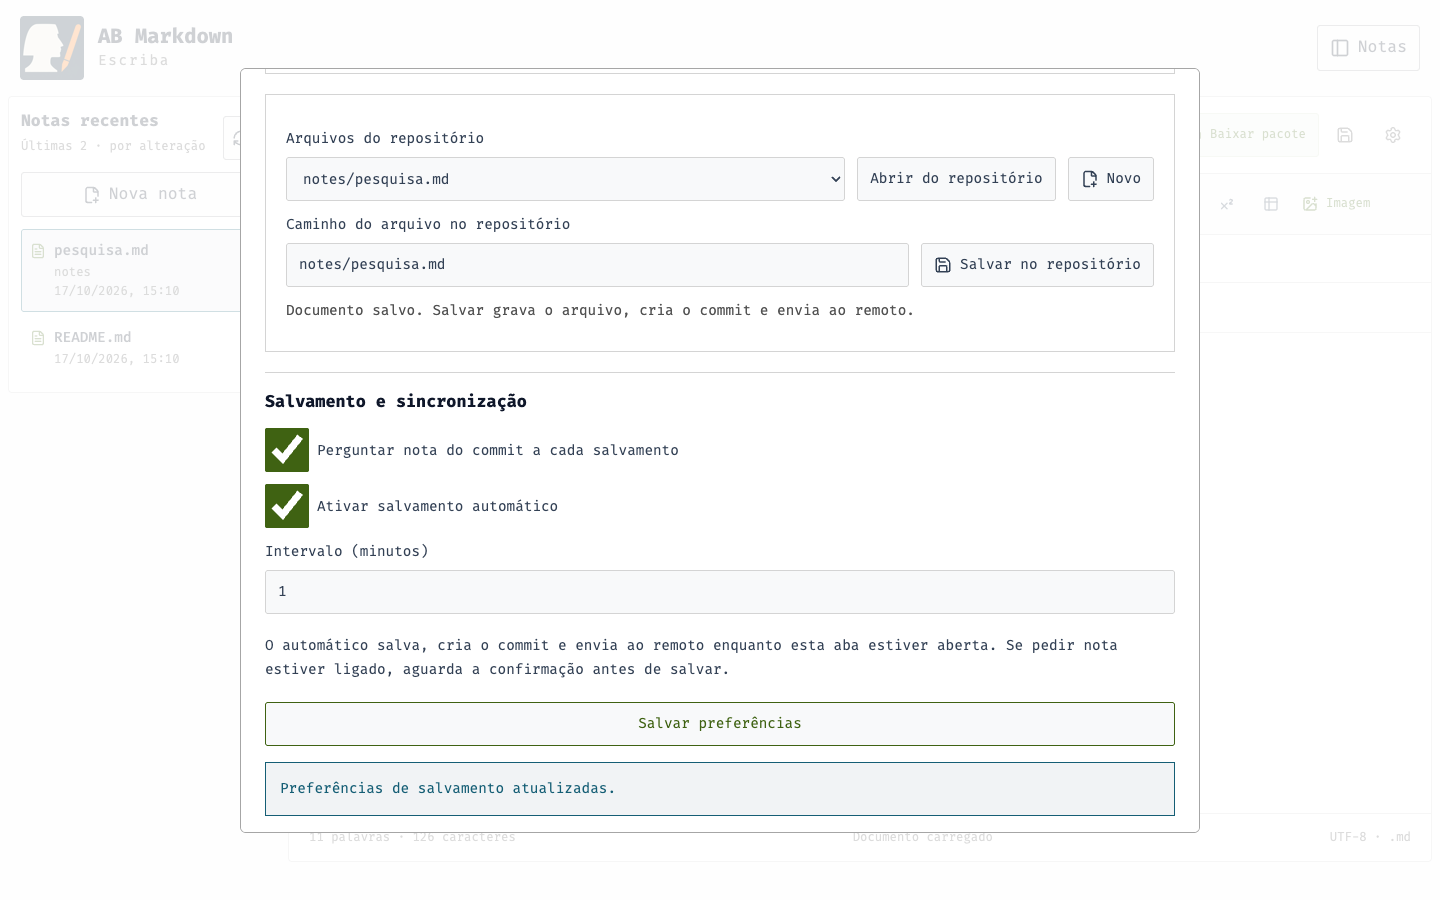
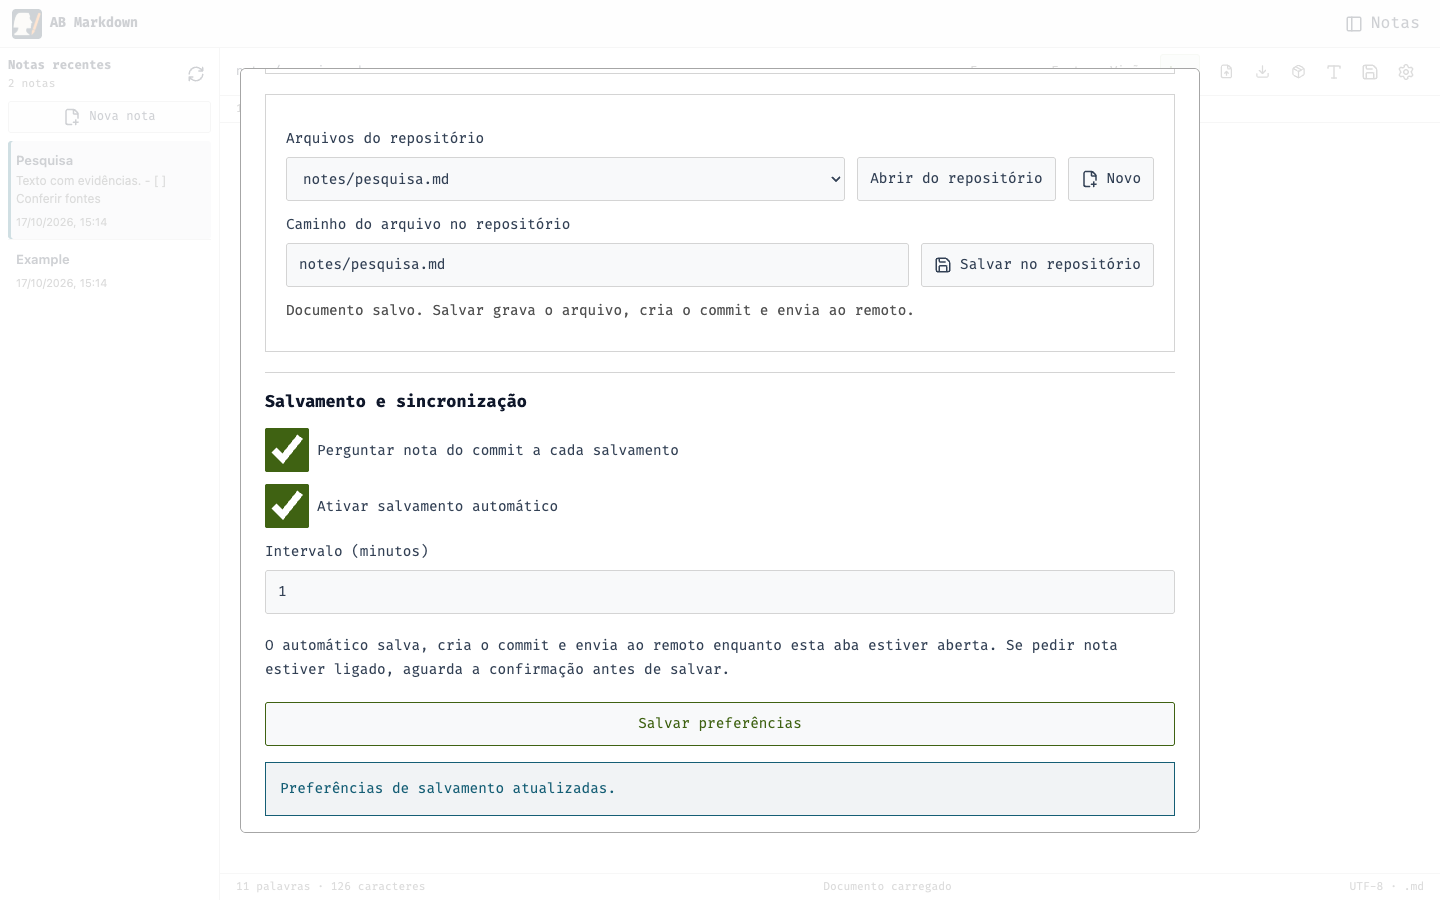
design: compact notes workspace with independent scrolling and note previews

diff --git a/src/components/Markdown/MarkdownWorkbench.tsx b/src/components/Markdown/MarkdownWorkbench.tsx
@@ -1,5 +1,5 @@
 import { useEffect, useRef, useState, type ReactNode } from 'react';
-import { Download, FileUp, FileText, Package } from 'lucide-react';
+import { Download, FileUp, FileText, Package, Type } from 'lucide-react';
 import { readMarkdownFile, downloadMarkdown, downloadBlob } from '@/lib/markdown/files';
 import { createMarkdownPackage, prepareImages, readMarkdownPackage } from '@/lib/markdown/assets';
 import { parseEditableTable, type EditableTable } from '@/lib/markdown/tables';
@@ -29,6 +29,8 @@ export interface MarkdownWorkbenchProps {
   initialMode?: MarkdownMode;
   /** Host actions displayed alongside the document's existing toolbar controls. */
   actions?: ReactNode;
+  /** Compact standalone layout with formatting available on demand. */
+  compact?: boolean;
   /** Files loaded from the configured repository, applied on mount. */
   initialAssets?: {path: string; file: File}[];
   /** Reports attached files so the host can persist the complete document. */
@@ -42,7 +44,7 @@ export interface MarkdownWorkbenchProps {
 const modes = [['live', 'Escrever'], ['source', 'Fonte'], ['split', 'Visão'], ['read', 'Ler']] as const;
 
 /** File operations and presentation around the reusable controlled editor. */
-export function MarkdownWorkbench({ value, onChange, fileName, onFileNameChange, onImport, initialMode = 'live', actions, readOnly = false, initialAssets, onAssetsChange, saveRevision = 0 }: MarkdownWorkbenchProps) {
+export function MarkdownWorkbench({ value, onChange, fileName, onFileNameChange, onImport, initialMode = 'live', actions, compact = false, readOnly = false, initialAssets, onAssetsChange, saveRevision = 0 }: MarkdownWorkbenchProps) {
   const [mode, setMode] = useState<MarkdownMode>(initialMode);
   const [baseline, setBaseline] = useState(value);
   const [busy, setBusy] = useState(false);
@@ -125,22 +127,24 @@ export function MarkdownWorkbench({ value, onChange, fileName, onFileNameChange,
     catch (cause) { setError(cause instanceof Error ? cause.message : 'Não foi possível editar a tabela.'); }
   }
 
-  return <section className={styles.workbench} aria-label="Bancada Markdown" aria-busy={busy}>
+  const [formattingOpen, setFormattingOpen] = useState(false);
+  return <section className={`${styles.workbench} ${compact ? styles.compact : ''}`} aria-label="Bancada Markdown" aria-busy={busy}>
     <header className={styles.toolbar}>
       <div className={styles.filename}><FileText size={16} aria-hidden="true"/><span title={fileName}>{fileName}</span>{dirty && <span className={styles.dot} aria-label="Documento alterado"/>}</div>
       <div className={styles.modes} role="group" aria-label="Modo de edição">
         {modes.map(([key, label]) => <button type="button" key={key} aria-pressed={mode === key} onClick={() => setMode(key)}>{label}</button>)}
       </div>
       <div className={styles.actions}>
-        <button type="button" disabled={readOnly || busy} onClick={() => input.current?.click()}><FileUp size={15} aria-hidden="true"/>Abrir .md / ZIP</button>
-        <button type="button" className={styles.download} onClick={() => downloadMarkdown(value, fileName)}><Download size={15} aria-hidden="true"/>Baixar .md</button>
-        <button type="button" className={styles.download} disabled={busy} onClick={() => void downloadPackage()}><Package size={15} aria-hidden="true"/>Baixar pacote</button>
+        <button type="button" disabled={readOnly || busy} aria-label="Abrir .md / ZIP" title="Abrir .md / ZIP" onClick={() => input.current?.click()}><FileUp size={15} aria-hidden="true"/><span className={styles.actionLabel}>Abrir .md / ZIP</span></button>
+        <button type="button" className={styles.download} aria-label="Baixar .md" title="Baixar .md" onClick={() => downloadMarkdown(value, fileName)}><Download size={15} aria-hidden="true"/><span className={styles.actionLabel}>Baixar .md</span></button>
+        <button type="button" className={styles.download} disabled={busy} aria-label="Baixar pacote" title="Baixar pacote" onClick={() => void downloadPackage()}><Package size={15} aria-hidden="true"/><span className={styles.actionLabel}>Baixar pacote</span></button>
+        {compact && <button type="button" aria-label={formattingOpen ? 'Ocultar formatação' : 'Mostrar formatação'} title="Formatação" aria-expanded={formattingOpen} onClick={() => setFormattingOpen(open => !open)}><Type size={18}/></button>}
         {actions}
       </div>
       <input ref={input} type="file" hidden aria-label="Arquivo Markdown" disabled={readOnly || busy} accept=".md,.markdown,.mdown,.zip,.bear,text/markdown,application/zip" onChange={event => { void open(event.target.files?.[0]); event.target.value = ''; }}/>
       <input ref={imageInput} type="file" hidden multiple aria-label="Arquivos de imagem" disabled={readOnly || busy} accept="image/png,image/jpeg,image/gif,image/webp" onChange={event => { void insertImages(Array.from(event.target.files ?? []), imageRange.current); event.target.value = ''; }}/>
     </header>
-    <EditingToolbar disabled={readOnly || busy} onCommand={command} onLink={() => { const range = editor.current?.selection() ?? { from: 0, to: 0 }; setLinkRange(range); setLinkText(value.slice(range.from, range.to)); setLinkUrl('https://'); setLinkError(''); }} onImage={() => { imageRange.current = editor.current?.selection() ?? { from: value.length, to: value.length }; imageInput.current?.click(); }}/>
+    {(!compact || formattingOpen) && <EditingToolbar disabled={readOnly || busy} onCommand={command} onLink={() => { const range = editor.current?.selection() ?? { from: 0, to: 0 }; setLinkRange(range); setLinkText(value.slice(range.from, range.to)); setLinkUrl('https://'); setLinkError(''); }} onImage={() => { imageRange.current = editor.current?.selection() ?? { from: value.length, to: value.length }; imageInput.current?.click(); }}/>}
     {error && <p role="alert" className={styles.error}>{error}</p>}
     {assets.length > 0 && <p className={styles.assetHint}>{assets.length} imagem(ns) anexada(s). Use <strong>Baixar pacote</strong> para levar o Markdown e as imagens juntos.</p>}
     <div className={styles.modeHint}>{mode === 'live' ? 'Os marcadores aparecem na linha selecionada. Clique no texto para editar.' : mode === 'source' ? 'Markdown original, com todos os marcadores visíveis.' : mode === 'split' ? 'Edite o Markdown e acompanhe a prévia de leitura.' : 'Prévia de leitura. Volte a Escrever para editar.'}</div>

diff --git a/src/main.tsx b/src/main.tsx
@@ -16,6 +16,9 @@ interface RecentNote {
   name: string;
   /** File modification time in ISO format, newest first. */
   modifiedAt: string;
+  /** Markdown heading and short plain-text preview for the note list. */
+  title?: string;
+  preview?: string;
 }
 const brandIcon = '/icons/profile-v3/scribe-64.png';
 interface RepositoryInfo {
@@ -297,7 +300,7 @@ function App() {
   return <main aria-busy={busy} className="editor-app">
     <header className="editor-brandbar">
       <div className="editor-brand"><img src={brandIcon} width="64" height="64" alt="Escriba egípcio — AB Markdown"/><div><strong>AB Markdown</strong><span>Escriba</span></div></div>
-      <button type="button" aria-controls="recent-notes" aria-expanded={notesOpen} aria-label={notesOpen ? 'Ocultar notas recentes' : 'Mostrar notas recentes'} onClick={() => setNotesOpen(open => !open)}><PanelLeft size={20}/>Notas</button>
+      <button type="button" aria-controls="recent-notes" aria-expanded={notesOpen} aria-label={notesOpen ? 'Ocultar notas recentes' : 'Mostrar notas recentes'} onClick={() => setNotesOpen(open => !open)}><PanelLeft size={18}/><span className="notes-toggle-label">Notas</span></button>
     </header>
     {settingsOpen && <EditorDialog title="Configurações" onClose={() => setSettingsOpen(false)}>
     <div className="settings-content">
@@ -355,13 +358,13 @@ function App() {
     {!settingsOpen && statusMessages}
     <div className="editor-layout">
     {notesOpen && <aside id="recent-notes" className="notes-sidebar" aria-label="Notas recentes">
-      <div className="notes-heading"><div><h2>Notas recentes</h2><p>Últimas {recentNotes.length} · por alteração</p></div><button type="button" aria-label="Atualizar notas recentes" disabled={busy || !repository.repository || offline} onClick={() => void run(async () => { await refresh(); })}><RefreshCw size={18}/></button></div>
+      <div className="notes-heading"><div><h2>Notas recentes</h2><p>{recentNotes.length} notas</p></div><button type="button" aria-label="Atualizar notas recentes" disabled={busy || !repository.repository || offline} onClick={() => void run(async () => { await refresh(); })}><RefreshCw size={18}/></button></div>
       <button className="new-note" type="button" disabled={busy || !draftReady} onClick={() => { if (discard()) { resetDocument(); if (window.matchMedia('(max-width: 899px)').matches) setNotesOpen(false); } }}><FilePlus2 size={18}/>Nova nota</button>
       {!repository.repository && <p className="notes-empty">Conecte um repositório nas configurações para listar suas notas.</p>}
       {repository.repository && !recentNotes.length && <p className="notes-empty">{offline ? 'Abra o aplicativo local para carregar a lista.' : 'Nenhuma nota Markdown encontrada.'}</p>}
-      <nav aria-label="100 notas mais recentes"><ol>{recentNotes.map(note => <li key={note.name}><button type="button" disabled={busy || !draftReady || offline} aria-current={name === note.name && version ? 'page' : undefined} title={note.name} onClick={() => void openNote(note.name)}><FileText size={16}/><span><strong>{note.name.split('/').at(-1)}</strong>{note.name.includes('/') && <small>{note.name.slice(0, note.name.lastIndexOf('/'))}</small>}<time dateTime={note.modifiedAt}>{new Date(note.modifiedAt).toLocaleString('pt-BR', {day:'2-digit', month:'2-digit', year:'numeric', hour:'2-digit', minute:'2-digit'})}</time></span></button></li>)}</ol></nav>
+      <nav aria-label="100 notas mais recentes"><ol>{recentNotes.map(note => <li key={note.name}><button type="button" disabled={busy || !draftReady || offline} aria-current={name === note.name && version ? 'page' : undefined} title={note.name} aria-label={note.name} onClick={() => void openNote(note.name)}><FileText size={16}/><span><strong>{note.title || note.name.split('/').at(-1)}</strong>{note.preview && <span className="note-preview">{note.preview}</span>}{note.name.includes('/') && <small>{note.name.slice(0, note.name.lastIndexOf('/'))}</small>}<time dateTime={note.modifiedAt}>{new Date(note.modifiedAt).toLocaleString('pt-BR', {day:'2-digit', month:'2-digit', year:'numeric', hour:'2-digit', minute:'2-digit'})}</time></span></button></li>)}</ol></nav>
     </aside>}
-    <fieldset disabled={!draftReady || busy} className="editor-container"><MarkdownWorkbench key={documentId} value={value} onChange={setValue} fileName={name} onFileNameChange={newName => { setName(newName); setVersion(null); setLoadedName(''); setImportedVersion(null); }} onImport={registerImport} initialAssets={initialAssets} onAssetsChange={handleAssets} saveRevision={saveRevision} readOnly={!draftReady || busy} actions={<>
+    <fieldset disabled={!draftReady || busy} className="editor-container"><MarkdownWorkbench compact key={documentId} value={value} onChange={setValue} fileName={name} onFileNameChange={newName => { setName(newName); setVersion(null); setLoadedName(''); setImportedVersion(null); }} onImport={registerImport} initialAssets={initialAssets} onAssetsChange={handleAssets} saveRevision={saveRevision} readOnly={!draftReady || busy} actions={<>
       {offline && <span className="offline-indicator" aria-label="Modo offline"><CloudOff size={16}/>Offline</span>}
       {repository.repository && <button type="button" disabled={busy} aria-label="Salvar no repositório" title="Salvar no repositório (⌘S)" onClick={() => requestSave()}><Save size={18}/></button>}
       <button type="button" aria-label="Configurações" title="Configurações" aria-haspopup="dialog" aria-expanded={settingsOpen} onClick={() => setSettingsOpen(true)}><Settings size={18}/></button>

diff --git a/tests/sidebar.spec.ts b/tests/sidebar.spec.ts
@@ -17,14 +17,16 @@ for(const viewport of [{name:'desktop',width:1440,height:900},{name:'mobile',wid
    expect(await brand.evaluate((el:HTMLImageElement)=>el.complete&&el.naturalWidth===64)).toBe(true);
    const favicon=page.locator('link[rel="icon"][type="image/png"]');await expect(favicon).toHaveAttribute('href','/icons/profile-v3/scribe-32.png');expect((await page.request.get((await favicon.getAttribute('href'))!)).status()).toBe(200);
    if(viewport.name==='mobile')await page.getByRole('button',{name:'Mostrar notas recentes'}).click();
-   const sidebar=page.getByRole('complementary',{name:'Notas recentes'});await expect(sidebar.locator('nav li')).toHaveCount(100);await expect(sidebar.locator('nav strong').first()).toHaveText('note-104.md');await expect(sidebar.locator('nav strong').last()).toHaveText('note-005.md');
+   const sidebar=page.getByRole('complementary',{name:'Notas recentes'});await expect(sidebar.locator('nav li')).toHaveCount(100);await expect(sidebar.locator('nav strong').first()).toHaveText('Nota 104');await expect(sidebar.locator('nav strong').last()).toHaveText('Nota 5');
+   await expect(sidebar.locator('.note-preview').first()).toContainText('Conteúdo 104');
+   expect(await page.evaluate(()=>document.documentElement.scrollHeight<=innerHeight)).toBe(true);
    await page.screenshot({path:`docs/evidence/${viewport.name}-recent-notes-dark.png`,fullPage:true});
-   await sidebar.getByRole('button',{name:/note-104.md/}).click();await page.getByRole('button',{name:'Fonte',exact:true}).click();const source=page.locator('.cm-content');await expect(source).toContainText('Conteúdo 104');await source.click();await page.keyboard.insertText('Edição preservada');
+   await sidebar.getByRole('button',{name:/note-104.md/}).click();await page.getByRole('button',{name:'Fonte',exact:true}).click();await page.getByRole('button',{name:'Mostrar formatação'}).click();await expect(page.getByRole('button',{name:'Negrito',exact:true})).toBeVisible();await page.getByRole('button',{name:'Ocultar formatação'}).click();const source=page.locator('.cm-content');await expect(source).toContainText('Conteúdo 104');await source.click();await page.keyboard.insertText('Edição preservada');
    if(viewport.name==='mobile')await page.getByRole('button',{name:'Mostrar notas recentes'}).click();
    page.once('dialog',dialog=>dialog.dismiss());await sidebar.getByRole('button',{name:/note-103.md/}).click();await expect(source).toContainText('Edição preservada');
    page.once('dialog',dialog=>dialog.accept());await sidebar.getByRole('button',{name:/note-103.md/}).click();await page.getByRole('button',{name:'Fonte',exact:true}).click();await expect(source).toContainText('Conteúdo 103');await source.click();await page.keyboard.insertText('Atualizado');
    await page.getByRole('button',{name:'Salvar no repositório',exact:true}).click();await expect(page.getByRole('status')).toHaveText('Arquivo salvo, commit criado e enviado ao remoto.');
-   if(viewport.name==='mobile')await page.getByRole('button',{name:'Mostrar notas recentes'}).click();await expect(sidebar.locator('nav strong').first()).toHaveText('note-103.md');
+   if(viewport.name==='mobile')await page.getByRole('button',{name:'Mostrar notas recentes'}).click();await expect(sidebar.locator('nav strong').first()).toHaveText('Nota 103');
    await page.getByRole('button',{name:'Configurações',exact:true}).click();await page.getByRole('button',{name:'Usar tema claro'}).click();await settings.getByRole('button',{name:'Fechar',exact:true}).click();
    await page.screenshot({path:`docs/evidence/${viewport.name}-recent-notes-light.png`,fullPage:true});expect(await page.evaluate(()=>document.documentElement.scrollWidth<=innerWidth)).toBe(true);
   }finally{await rm(temporary,{recursive:true,force:true});}

diff --git a/src/style.css b/src/style.css
@@ -94,3 +94,35 @@ textarea { font: inherit; font-size: 16px; color: var(--text-primary); backgroun
   .editor-brand { gap: 10px; }
   .editor-brand strong { font-size: 16px; }
 }
+
+/* Dense notes workspace: fixed shell, independently scrolling list and document. */
+.editor-app { height: 100dvh; display: flex; flex-direction: column; overflow: hidden; padding: 0; }
+.editor-brandbar { flex: 0 0 48px; min-height: 48px; padding: 0 12px; border-bottom: 1px solid var(--border-panel); }
+.editor-brand { gap: 8px; }
+.editor-brand img { width: 30px; height: 30px; flex-basis: 30px; }
+.editor-brand strong { font-size: 13px; }
+.editor-brand span { display: none; }
+.editor-brandbar > button { min-height: 36px; padding: 6px 8px; border: 0; background: transparent; }
+.editor-layout { flex: 1; min-height: 0; align-items: stretch; gap: 0; }
+.editor-layout > .editor-container { display: flex; flex-direction: column; min-height: 0; overflow: hidden; }
+.notes-sidebar { position: static; flex: 0 0 220px; width: 220px; max-height: none; border: 0; border-right: 1px solid var(--border-panel); border-radius: 0; padding: 8px; overflow-y: auto; }
+.notes-heading h2 { font-size: 12px; }
+.notes-heading p { font-size: 11px; margin: 0; }
+.notes-heading button { min-height: 32px; padding: 6px; border: 0; background: transparent; }
+.new-note { min-height: 32px; font-size: 12px; margin: 8px 0; padding: 4px 8px; border-color: var(--border-panel); }
+.notes-sidebar li + li { margin: 0; border-top: 1px solid var(--border-base); }
+.notes-sidebar nav button { padding: 10px 8px; border-radius: var(--radius-sm); border: 0; min-height: 64px; }
+.notes-sidebar nav button svg { display: none; }
+.notes-sidebar nav strong { font-family: system-ui, sans-serif; font-size: 13px; font-weight: 600; line-height: 1.4; display: -webkit-box; -webkit-line-clamp: 2; -webkit-box-orient: vertical; overflow: hidden; }
+.note-preview { display: -webkit-box; -webkit-line-clamp: 2; -webkit-box-orient: vertical; overflow: hidden; font: 12px/1.5 system-ui, sans-serif; color: var(--text-muted); margin-top: 3px; }
+.notes-sidebar nav small { display: none; }
+.notes-sidebar time { font: 11px/1.4 system-ui, sans-serif; margin-top: 6px; }
+.notes-sidebar nav button[aria-current="page"] { background: var(--bg-elevated); box-shadow: inset 3px 0 var(--cyan); }
+.editor-app .editor-container .cm-content { min-height: calc(100dvh - 220px); }
+@media (max-width: 899px) {
+ .editor-layout { position: relative; flex-direction: row; }
+ .notes-sidebar { position: absolute; inset: 0 auto 0 0; width: min(280px, 85vw); z-index: 5; max-height: none; border-right: 1px solid var(--border-strong); }
+ .editor-brandbar { padding: 0 8px; }
+ .editor-brandbar > button { min-height: 44px; min-width: 44px; }
+ .notes-heading button, .new-note { min-height: 44px; }
+}

diff --git a/src/components/Markdown/MarkdownWorkbench.module.css b/src/components/Markdown/MarkdownWorkbench.module.css
@@ -77,3 +77,31 @@
 .cellEditor input { min-width: 120px; width: 100%; }
 @media (max-width: 760px) { .toolbar { gap: 12px; } .modes { order: 3; width: 100%; } .modes button { flex: 1; } .actions { margin-left: auto; } .split { grid-template-columns: minmax(0,1fr); } .split .source { border-right: 0; border-bottom: 1px solid var(--border-panel); } .reading { padding: 24px 20px; } .filename > span:first-of-type { max-width: 150px; } }
 @media (max-width: 430px) { .filename { flex-basis: 100%; } .actions { margin-left: 0; width: 100%; } .actions button { flex: 1; } }
+
+.compact { height: 100%; display: flex; flex-direction: column; border: 0; border-radius: 0; min-height: 0; }
+.compact .toolbar { flex-shrink: 0; gap: 8px; padding: 4px 16px; min-height: 48px; }
+.compact .toolbar button { padding: 6px 8px; min-width: 36px; min-height: 36px; }
+.compact .filename { font-size: 12px; min-width: 80px; }
+.compact .filename svg { display: none; }
+.compact .modes { border: 0; padding: 0; background: transparent; }
+.compact .modes button { font-size: 12px; }
+.compact .actions { gap: 0; }
+.compact .actionLabel { display: none; }
+.compact .download { border-color: transparent; background: transparent; color: var(--text-muted); }
+.compact .modeHint { position: absolute; width: 1px; height: 1px; padding: 0; overflow: hidden; clip-path: inset(50%); }
+.compact .pages { flex: 1; min-height: 0; overflow-y: auto; overscroll-behavior: contain; }
+.compact .source { padding: 20px 32px 80px; width: 100%; max-width: 800px; }
+.compact .reading { max-width: 800px; padding: 32px 48px 80px; }
+.compact .footer { padding: 4px 16px; font-size: 11px; flex-shrink: 0; border-top: 1px solid var(--border-base); }
+.compact .assetHint { padding: 4px 16px; margin: 0; font-size: 11px; }
+.compact .editingToolbar { padding: 4px 12px; gap: 0; }
+.compact .editingToolbar button, .compact .editingToolbar select { min-height: 36px; min-width: 36px; padding: 6px; }
+@media (max-width: 760px) {
+ .compact .toolbar { gap: 0 8px; padding: 4px 8px; }
+ .compact .modes { order: 3; width: 100%; justify-content: center; }
+ .compact .modes button { flex: 0 1 80px; }
+ .compact .toolbar button, .compact .editingToolbar button, .compact .editingToolbar select { min-height: 44px; min-width: 44px; }
+ .compact .source { padding: 16px 12px 64px; }
+ .compact .reading { padding: 24px 20px 64px; }
+ .compact .footer > span:nth-child(2) { display: none; }
+}

diff --git a/docs/VALIDATION.md b/docs/VALIDATION.md
@@ -39,3 +39,9 @@ A verificação posterior em lista revelou que o link simbólico ainda podia apa
 Logo de 64 px visível no cabeçalho do editor; favicon, Apple Touch Icon e manifest usam caminhos novos em `icons/profile-v3/`, evitando as URLs que ficaram no cache anterior. A barra lateral mostra até 100 Markdown por mtime decrescente, incluindo arquivos não rastreados e excluindo links simbólicos/arquivos removidos. Abrir nota exige confirmação quando há edição pendente. Novo salvamento atualiza a ordem; botão de atualização permite reler alterações externas.
 
 Jornadas desktop/mobile criam 105 notas, verificam exatamente 100 entradas ordenadas, abrem notas, cancelam/confimam descarte, salvam com Git real e conferem reordenação, imagem carregada, URL nova do favicon e ausência de overflow horizontal. Capturas nos dois temas. No celular, a lista inicia recolhida, abre pelo botão Notas e recolhe após abrir uma nota.
+
+## Layout compacto inspirado na referência de notas
+
+Cabeçalho reduzido de 96 para 48 px; lateral de 264 para 220 px; barras de ajuda removidas visualmente e formatação recolhida por padrão. Importação/exportação mantêm nomes acessíveis e dicas, usando botões de ícone. Lista e documento têm rolagem independente e o shell cabe em 100dvh, sem rolagem da página. A lista usa título do Markdown e trecho textual obtidos de até 8 KB por arquivo, com leitura em lotes de 32; conteúdo aparece como texto, sem execução de HTML.
+
+As 8 jornadas de navegador passaram nos dois tamanhos, incluindo abrir/recolher formatação, lista com título/trecho, limite de altura da janela e os fluxos anteriores de edição/Git/offline. Os 24 testes HTTP também passaram. Capturas atualizadas nos temas claro e escuro.

diff --git a/README.md b/README.md
@@ -85,3 +85,5 @@ Veja [funcionamento e limites da PWA](docs/PWA.md) e [origem do ícone](docs/ICO
 A barra lateral lista as **100 notas Markdown mais recentemente alteradas** no repositório conectado, com nome, pasta e data. Clique para abrir; edições pendentes pedem confirmação antes da troca. O salvamento atualiza a ordem, e o botão de atualização relê mudanças feitas fora do editor. **Nova nota** inicia um documento. O botão **Notas** mostra ou recolhe a lista; no celular ela começa recolhida.
 
 A logo aparece no cabeçalho do editor. Favicon e ícones PWA usam URLs novas para substituir versões antigas em cache. Em uma aba que já estava aberta durante a atualização, recarregue para carregar a interface nova; rascunhos são recuperados pelo navegador.
+
+O layout usa a altura inteira da janela: lista e documento rolam separadamente. A lateral mostra o título Markdown, um trecho e a data da nota; nomes longos são limitados a duas linhas. A barra principal usa ícones com rótulos acessíveis. Clique em **T (Formatação)** para abrir ou recolher as ferramentas de edição. No celular, a lista abre sobre o documento e fecha ao escolher uma nota.
